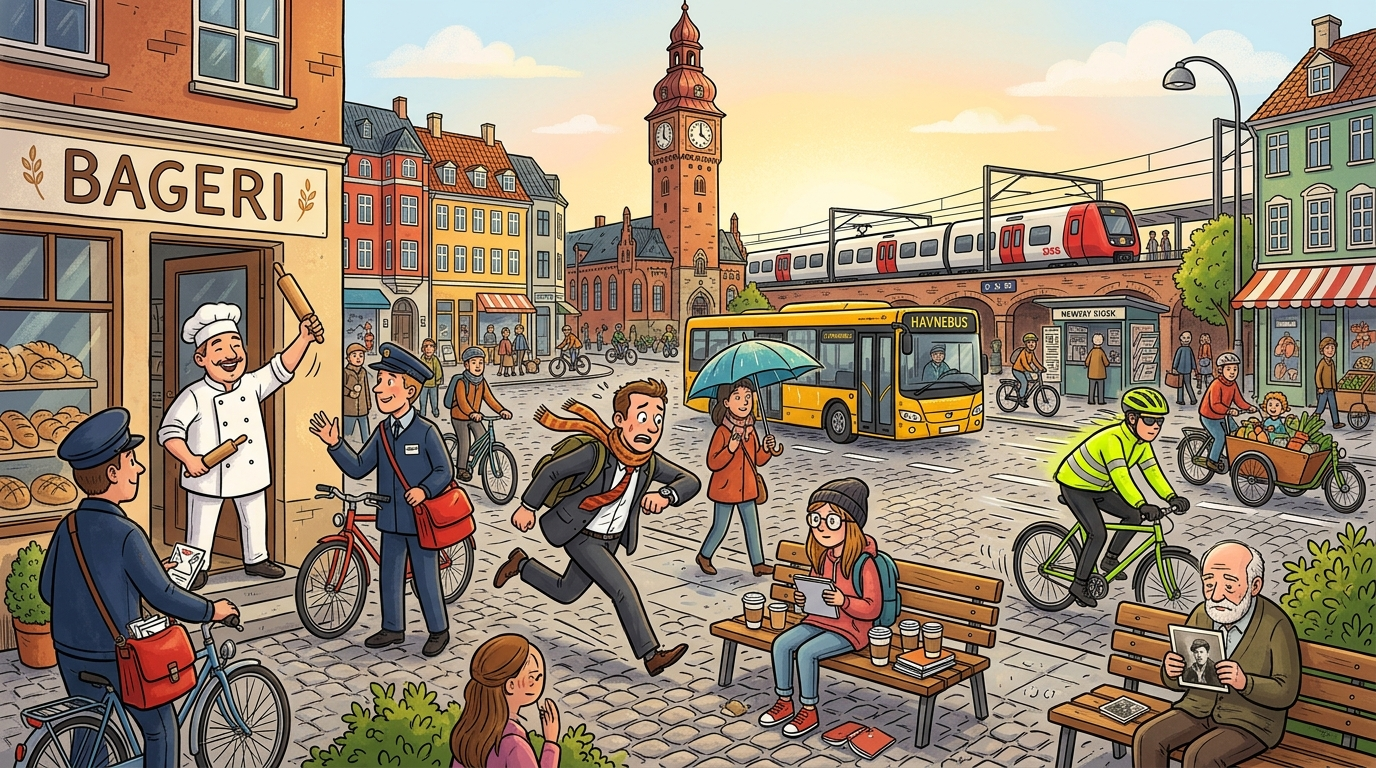
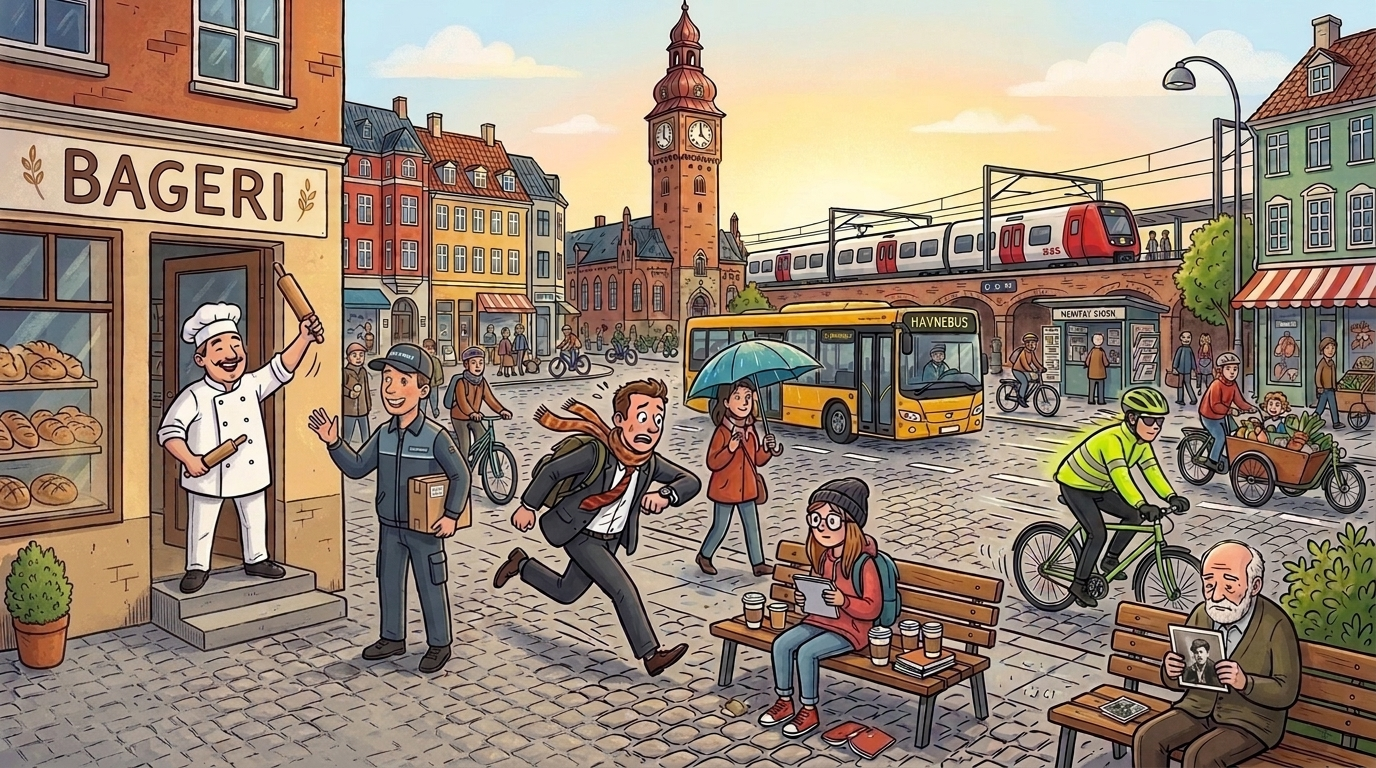
feat(adverbier_tid): udskift postbude med pakkebud og opdater målordet 'tit' med sætningen 'pakkebudet kommer tit forbi bageren'

diff --git a/src/utils/top100_adverbier_translations.js b/src/utils/top100_adverbier_translations.js
@@ -3524,71 +3524,71 @@ export const adverbierWordTranslations = {
     "fieldName": "tid",
     "da": {
       "meaning": "Ofte / mange gange i hverdagen",
-      "sentence": "Bussen kommer tit forbi."
+      "sentence": "Pakkebudet kommer tit forbi bageren."
     },
     "en": {
       "meaning": "often / frequently (informal daily Danish)",
-      "sentence": "The bus often comes by."
+      "sentence": "The parcel courier often comes by the bakery."
     },
     "de": {
       "meaning": "oft / häufig (Umgangssprache)",
-      "sentence": "Der Bus kommt oft vorbei."
+      "sentence": "Der Paketbote kommt oft bei der Bäckerei vorbei."
     },
     "es": {
       "meaning": "a menudo / con frecuencia (cotidiano)",
-      "sentence": "El autobús pasa a menudo."
+      "sentence": "El repartidor de paquetes pasa a menudo por la panadería."
     },
     "pt": {
       "meaning": "com frequência / muitas vezes (cotidiano)",
-      "sentence": "O ônibus passa com frequência por aqui."
+      "sentence": "O entregador de encomendas passa frequentemente pela padaria."
     },
     "tr": {
       "meaning": "sıkça / çok sık (günlük konuşma)",
-      "sentence": "Otobüs buradan sıkça geçer."
+      "sentence": "Kurye fırının önünden sık sık geçer."
     },
     "ar": {
       "meaning": "كثيرًا / بشكل متكرر (في الحياة اليومية)",
-      "sentence": "يمر الحافلة كثيرًا من هنا."
+      "sentence": "يمر ساعي الطرود كثيرًا بالمخبز."
     },
     "fa": {
       "meaning": "زیاد / مرتباً (در زبان روزمره)",
-      "sentence": "اتوبوس مرتباً از اینجا عبور میکند."
+      "sentence": "پیک مرسولات مرتباً از کنار نانوایی میگذرد."
     },
     "ku": {
       "meaning": "pir caran (di jiyana rojane de)",
-      "sentence": "Otobus pir caran ji vir derbas dibe."
+      "sentence": "Kuryeyê pakêtan pir caran di ber nanpêjiyê re derbas dibe."
     },
     "ur": {
       "meaning": "اکثر / بارہا (روزمرہ بول چال)",
-      "sentence": "بس اکثر یہاں سے گزرتی ہے۔"
+      "sentence": "پارسل ڈلیور کرنے والا اکثر بیکری کے پاس سے گزرتا ہے۔"
     },
     "ru": {
       "meaning": "часто / нередко (разговорное)",
-      "sentence": "Автобус часто проезжает мимо."
+      "sentence": "Курьер часто проходит мимо пекарни."
     },
     "uk": {
       "meaning": "часто / частенько (розмовне)",
-      "sentence": "Автобус частенько проїжджає повз."
+      "sentence": "Кур'єр часто проходить повз пекарню."
     },
     "zh": {
       "meaning": "经常 / 屡次（口语常用）",
-      "sentence": "公共汽车经常路过。"
+      "sentence": "快递员经常路过面包店。"
     },
     "vi": {
       "meaning": "thường / hay (khẩu ngữ)",
-      "sentence": "Xe buýt thường xuyên chạy ngang qua."
+      "sentence": "Người giao hàng thường xuyên đi ngang qua tiệm bánh."
     },
     "th": {
       "meaning": "บ่อยๆ (ภาษาพูดในชีวิตประจำวัน)",
-      "sentence": "รถเมล์วิ่งผ่านบ่อยๆ"
+      "sentence": "คนส่งพัสดุผ่านหน้าร้านเบเกอรี่บ่อยๆ"
     },
     "ne": {
       "meaning": "प्रायः (दैनिक कुराकानीमा)",
-      "sentence": "बस प्रायः यहाँबाट जान्छ।"
+      "sentence": "पार्सल डेलिभरी गर्ने प्रायः बेकरीको बाटो भएर जान्छ।"
     },
     "ps": {
       "meaning": "ډېر کله / بار بار",
-      "sentence": "بس ډېر کله له دې ځایه تېرېږي."
+      "sentence": "د پارسلونو وېشونکی اکثره د ډوډۍ پخونکي له مخې تېرېږي."
     }
   },
   "sjældent": {

diff --git a/src/views/AdverbierTidView.js b/src/views/AdverbierTidView.js
@@ -109,9 +109,9 @@ export function renderAdverbierTidView(container, navigateFn, extraData = {}) {
             pairType: 'frekvens',
             x: 28,
             y: 62,
-            sceneDesc: 'Postbuddet kommer tit forbi her.',
+            sceneDesc: 'Pakkebudet kommer tit forbi bageren.',
             meaning: 'Ofte / mange gange i hverdagen',
-            sentence: 'Bussen kommer tit forbi.',
+            sentence: 'Pakkebudet kommer tit forbi bageren.',
             ruleHint: 'Kort hverdagsord for "ofte". Bruges ekstremt meget i mundtligt dansk.'
         },
         {
